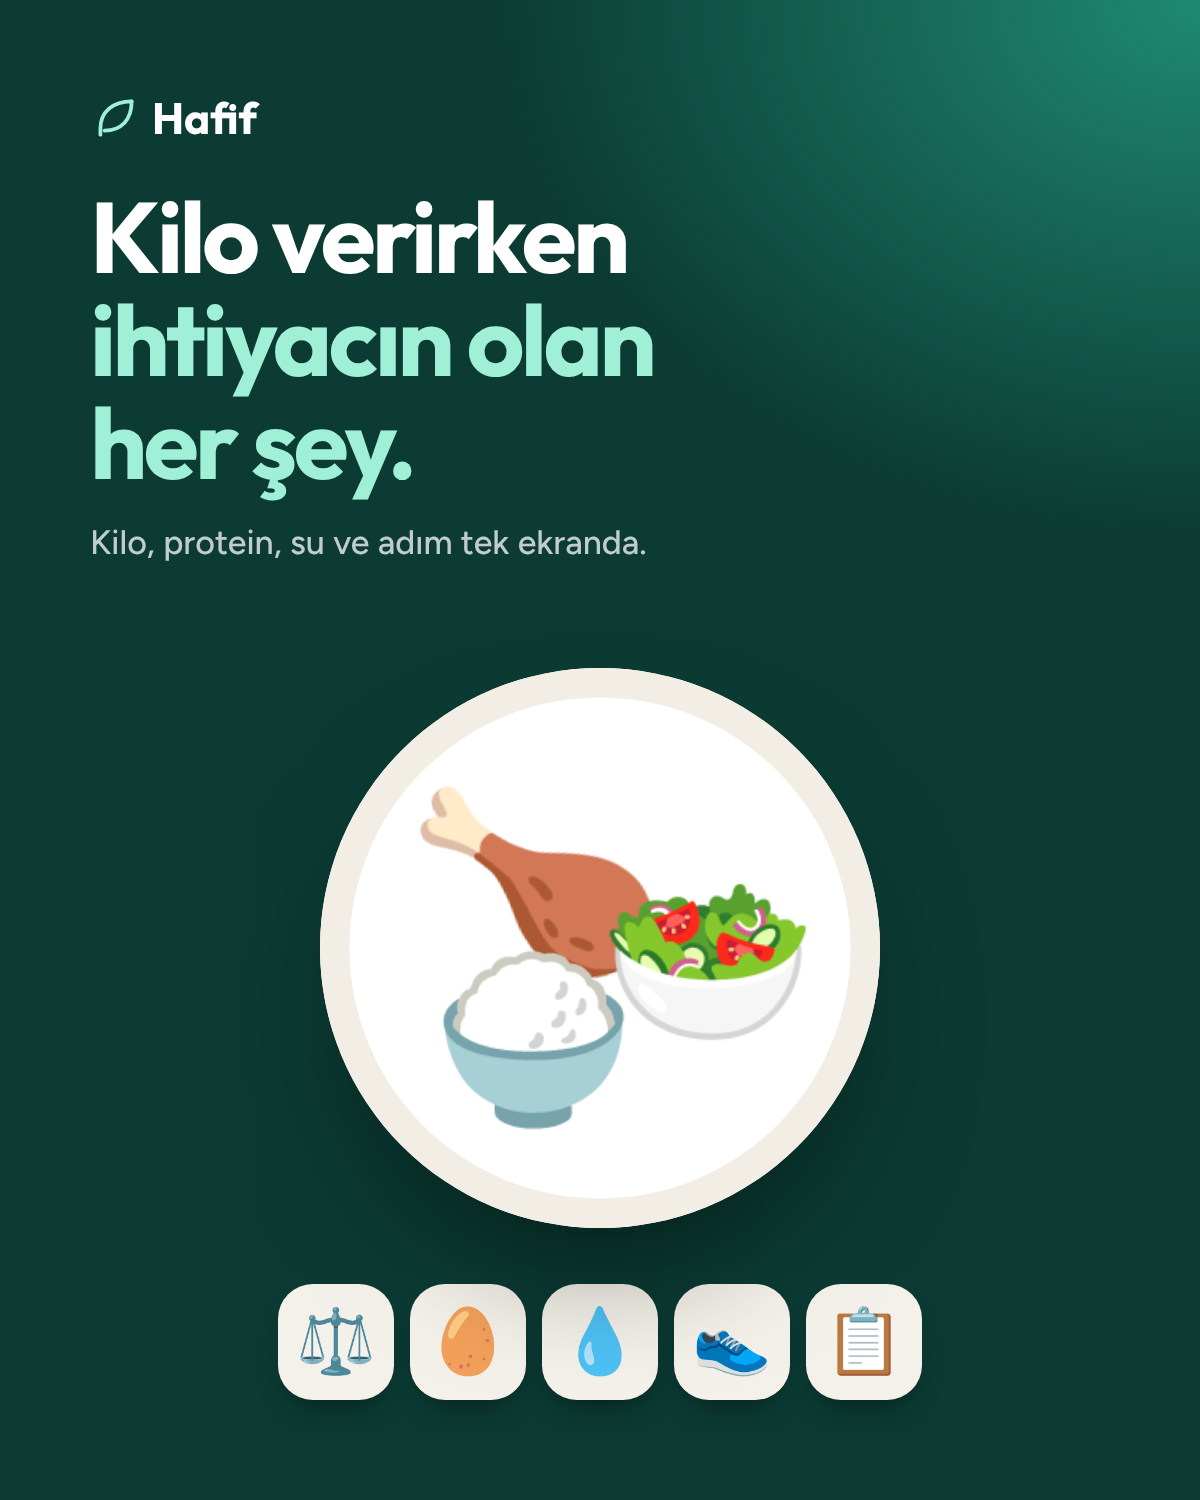
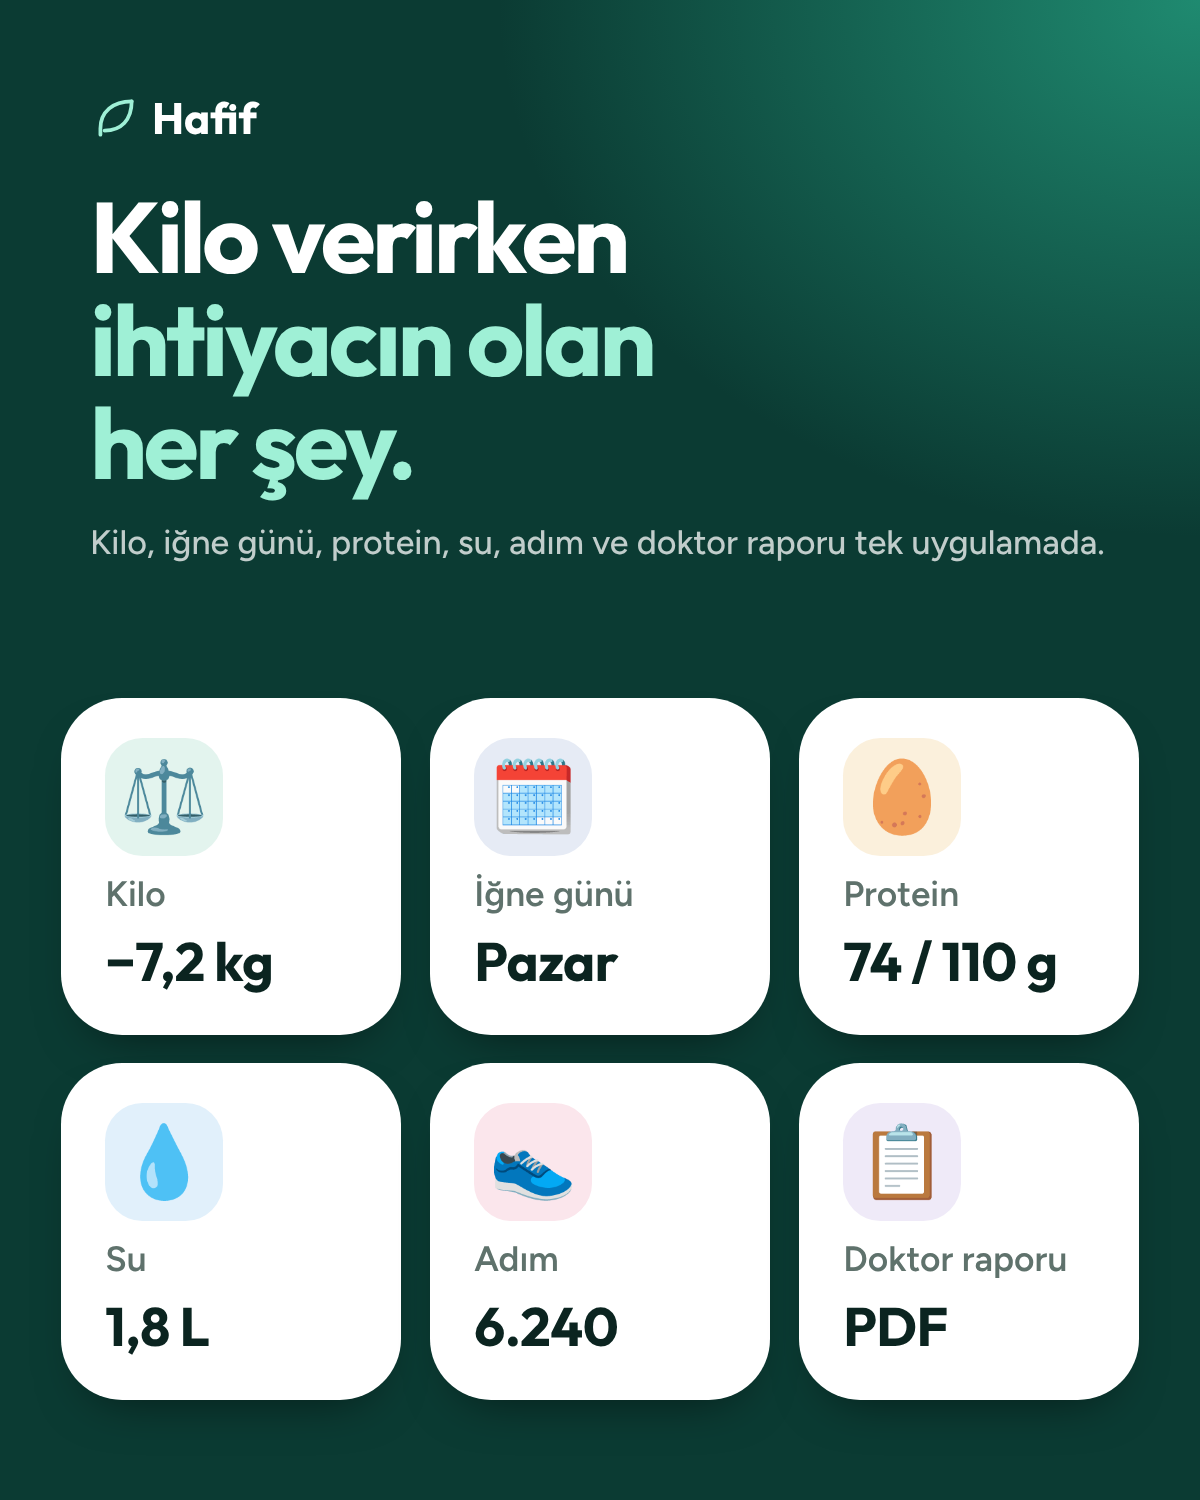
Reklam: ana görsel tabak yerine altı özellik kartı (kilo, iğne günü, protein, su, adım, rapor)
Claude-Session: https://claude.ai/code/session_01EnGhTyNt1kBeDFnUXYa9Ct

diff --git a/magaza/kaynak/aso/reklam-gorselleri.js b/magaza/kaynak/aso/reklam-gorselleri.js
@@ -14,17 +14,20 @@ const plate = d => `<div class="plate" style="width:${d}px;height:${d}px;box-sha
 
 // her tasarım: başlık, alt yazı, görsel parçası
 const TAS = {
-  'her-sey': { h: 'Kilo verirken<br><em>ihtiyacın olan<br>her şey.</em>', sub: 'Kilo, protein, su ve adım tek ekranda.',
-    alt: s => `<div class="chips">${['⚖', '🥚', '💧', '👟', '📋'].map(e => `<span class="c e" style="width:${s}px;height:${s}px;font-size:${s * .55}px;border-radius:${s * .3}px">${e}</span>`).join('')}</div>` },
+  'her-sey': { h: 'Kilo verirken<br><em>ihtiyacın olan<br>her şey.</em>', hk: 'Kilo verirken ihtiyacın<br><em>olan her şey.</em>', sub: 'Kilo, iğne günü, protein, su, adım ve doktor raporu tek uygulamada.', grid: true,
+    alt: s => `<div class="grid" style="gap:${s * .12}px;grid-template-columns:repeat(3,${s * 1.45}px)">${[
+      ['⚖', 'Kilo', '−7,2 kg', '#E3F4EE'], ['🗓', 'İğne günü', 'Pazar', '#E6EBF5'], ['🥚', 'Protein', '74 / 110 g', '#FBF0DC'],
+      ['💧', 'Su', '1,8 L', '#E1F0FB'], ['👟', 'Adım', '6.240', '#FBE6EC'], ['📋', 'Doktor raporu', 'PDF', '#EFEAF8']
+    ].map(([e, a, v, bg]) => `<div class="tile" style="padding:${s * .17}px ${s * .19}px;border-radius:${s * .26}px;gap:${s * .05}px"><span class="e ti" style="background:${bg};width:${s * .5}px;height:${s * .5}px;border-radius:${s * .16}px;font-size:${s * .3}px">${e}</span><small style="font-size:${s * .15}px">${a}</small><b style="font-size:${s * .23}px">${v}</b></div>`).join('')}</div>` },
   'ne-yesem': { h: 'Akşam ne yesem?<br><em>Hafif söylesin.</em>', sub: 'Kalan proteinine göre Türk mutfağından.',
     alt: s => `<div class="card" style="padding:${s * .28}px ${s * .36}px;gap:${s * .3}px;border-radius:${s * .45}px"><span class="e ci" style="font-size:${s * .6}px;width:${s}px;height:${s}px;border-radius:${s * .3}px">🍗</span><div><b style="font-size:${s * .42}px">Tavuk şiş ve bulgur</b><small style="font-size:${s * .28}px">+38 g protein · akşam için</small></div></div>` }
 };
 
 const html = (t, boy) => {
   const [W, H] = BOY[boy], y = boy === 'yatay';
-  const hs = y ? 60 : boy === 'kare' ? 92 : 100, pd = y ? 64 : 90;
+  const hs = y ? 60 : boy === 'kare' ? 84 : 100, pd = y ? 64 : 90;
   const lay = y
-    ? `.l{position:absolute;left:${pd}px;top:56px;width:560px}.r{position:absolute;right:56px;top:0;bottom:0;width:470px;display:flex;flex-direction:column;align-items:center;justify-content:center;gap:34px}`
+    ? `.l{position:absolute;left:${pd}px;top:56px;width:${t.grid ? 470 : 560}px}.r{position:absolute;right:${t.grid ? 44 : 56}px;top:0;bottom:0;width:${t.grid ? 590 : 470}px;display:flex;flex-direction:column;align-items:center;justify-content:center;gap:34px}`
     : `.l{position:absolute;left:${pd}px;right:${pd}px;top:${pd}px}.r{position:absolute;left:0;right:0;bottom:${boy === 'kare' ? 70 : 100}px;display:flex;flex-direction:column;align-items:center;gap:${boy === 'kare' ? 40 : 56}px}`;
   const pl = y ? 330 : boy === 'kare' ? 430 : 560, cs = y ? 74 : boy === 'kare' ? 100 : 116;
   return `<!doctype html><html><head><meta charset="utf-8"><link rel="stylesheet" href="file://${ROOT}/www/fonts/fonts.css"><style>
@@ -37,10 +40,12 @@ h1{margin:${y ? 26 : 40}px 0 0;font:700 ${hs}px/1.03 Outfit;letter-spacing:-.035
 .plate{position:relative;border-radius:50%;background:#fff;flex:none}.plate i{position:absolute}
 .chips{display:flex;gap:${y ? 10 : 16}px}.c{background:${K};display:grid;place-items:center;box-shadow:0 16px 30px -16px rgba(0,0,0,.6)}
 .card{display:flex;align-items:center;background:#fff;color:#0B2420;box-shadow:0 30px 60px -30px rgba(0,0,0,.6)}
+.grid{display:grid;grid-template-columns:repeat(3,1fr)}.tile{background:#fff;color:#0B2420;display:flex;flex-direction:column;box-shadow:0 24px 50px -28px rgba(0,0,0,.6)}
+.ti{display:grid;place-items:center}.tile small{font-family:Figtree;font-weight:600;color:#5F726C;margin-top:6px}.tile small,.tile b{white-space:nowrap}.tile b{font-family:Outfit;font-weight:700;letter-spacing:-.01em}
 .ci{background:#FBF0DC;display:grid;place-items:center;flex:none}.card b{display:block;font-family:Outfit;font-weight:700;letter-spacing:-.01em}.card small{font-family:Figtree;font-weight:500;color:#5F726C}
 ${lay}</style></head><body><div class="s">
-<div class="l"><div class="lg">${leaf(y ? 40 : 50)}Hafif</div><h1>${t.h}</h1><div class="sub">${t.sub}</div></div>
-<div class="r">${plate(pl)}${t.alt(cs)}</div></div></body></html>`;
+<div class="l"><div class="lg">${leaf(y ? 40 : 50)}Hafif</div><h1>${boy === 'kare' && t.hk ? t.hk : t.h}</h1><div class="sub">${t.sub}</div></div>
+<div class="r">${t.grid ? t.alt(y ? 122 : boy === 'kare' ? 210 : 235) : plate(pl) + t.alt(cs)}</div></div></body></html>`;
 };
 
 (async () => {
